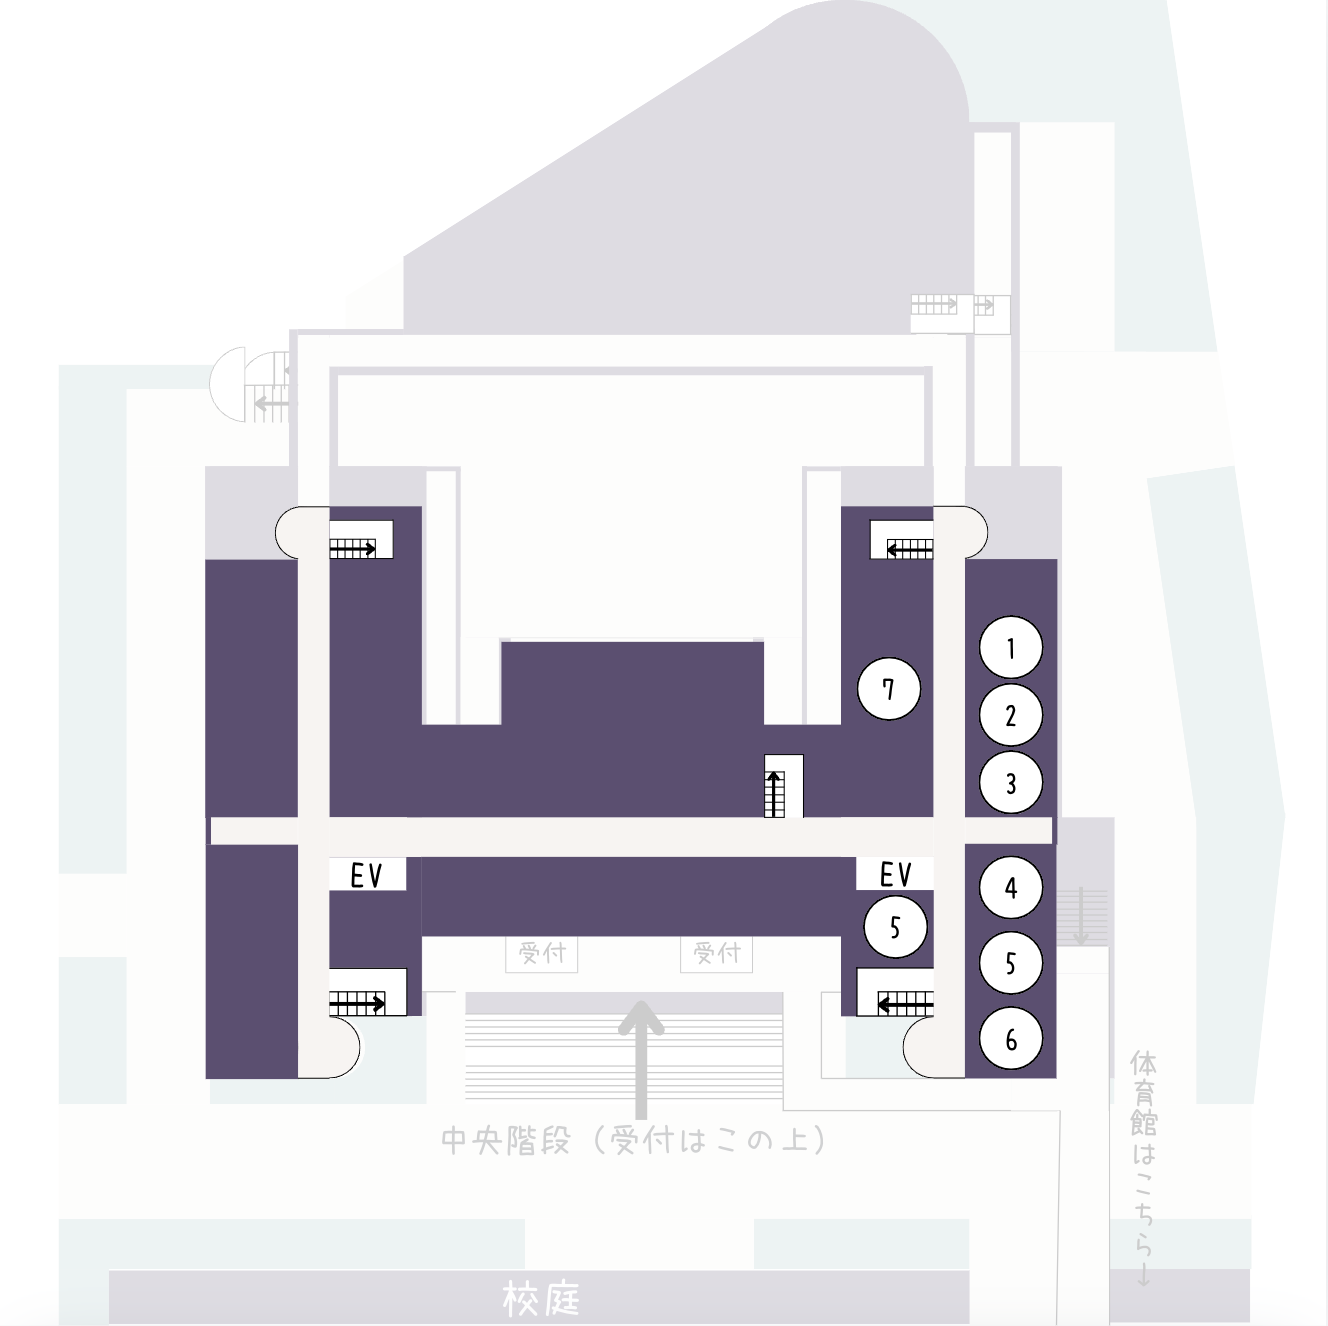
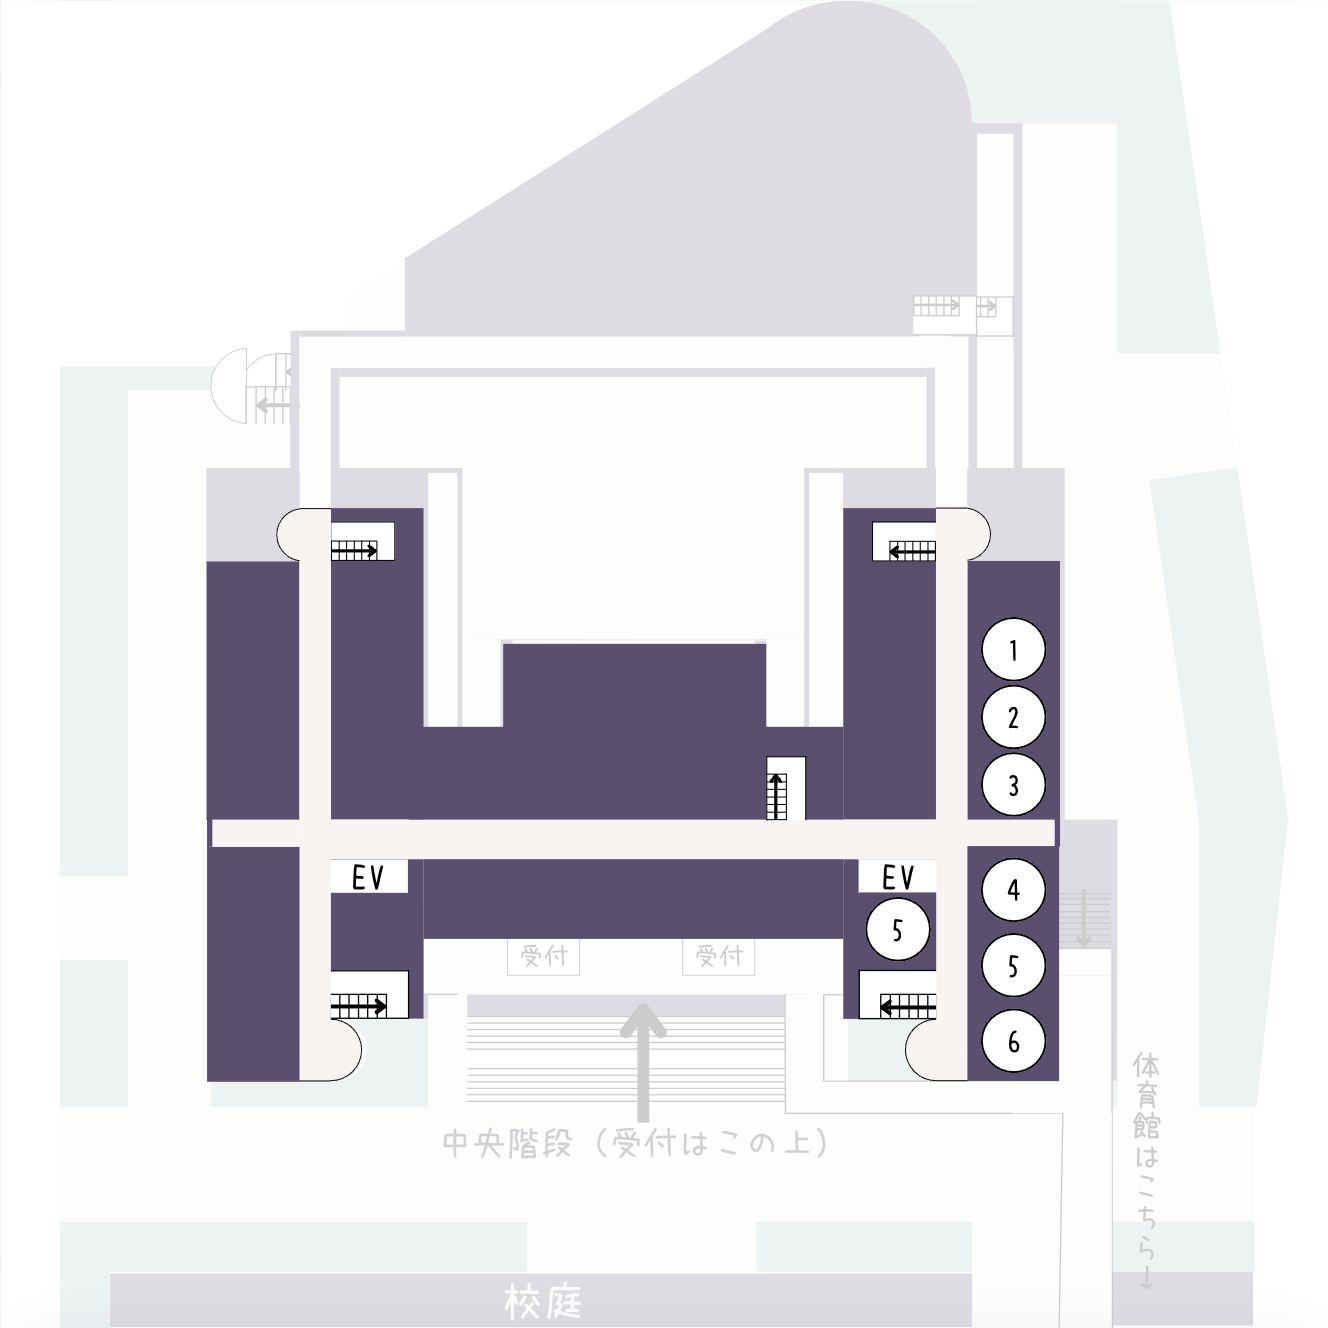
mapのメンテ完了

diff --git a/app/components/map/mapExhibitions.tsx b/app/components/map/mapExhibitions.tsx
@@ -2,10 +2,16 @@ import { zen_kurenaido } from "@/fonts/fonts"
 import Link from "next/link"
 
 export function MapExhibitions({ data }: { data: any}) {
+
+    console.log("--------------------------------------")
+    console.log(data)
+    console.log(data.contents)
+    console.log("--------------------------------------")
+
     return(
         <div className={`${zen_kurenaido.className} grid md:grid-cols-2 grid-cols-1`}>
             {
-                data.contents.map((content: any) => {
+                data.map((content: any) => {
                     return(
                         <Link
                         key={content.id}
@@ -15,7 +21,7 @@ export function MapExhibitions({ data }: { data: any}) {
                             <div
                             className="bg-white border border-black text-lg md:m-2 m-1 md:w-11 md:h-11 w-8 h-8 flex items-center justify-center rounded-full"
                             >
-                                {data.contents.indexOf(content) + 1}
+                                {content.mapNumber}
                                 </div>
                             <div>
                                 <div className="text-xl text-blue-500 hover:text-blue-700 underline">{content.title}</div>

diff --git a/consts/const.tsx b/consts/const.tsx
@@ -308,3 +308,47 @@ export const mapImages = [
     mapImage5F,
     mapImage6F
 ]
+
+const test = [
+    {
+        title: "a",
+        name: "aa",
+        number: 1,
+    },
+    {
+        title: "i",
+        name: "ii",
+        number: 7,
+    },
+    {
+        title: "y",
+        name: "yy",
+        number: 5,
+    },
+    {
+        title: "u",
+        name: "uu",
+        number: 4,
+    },
+    {
+        title: "o",
+        name: "oo",
+        number: 3,
+    },
+    {
+        title: "e",
+        name: "ee",
+        number: 6,
+    },
+    {
+        title: "k",
+        name: "kk",
+        number: 8,
+    },
+    {
+        title: "q",
+        name: "qq",
+        number: 2,
+    },
+
+]

diff --git a/app/map/page.tsx b/app/map/page.tsx
@@ -30,14 +30,14 @@ export default async function Page({searchParams}: {
             <PageMain title="マップ"/>
             <Header/>
             <PageContents>
-            <div className="flex items-center justify-center h-[580px] w-full">
+            {/* <div className="flex items-center justify-center h-[580px] w-full">
             <div className=" md:text-7xl text-3xl ">
                 メンテナンス中...
             </div>
-        </div>
-                {/* <Suspense>
+        </div> */}
+                <Suspense>
                     <Map floor={floor}/>
-                </Suspense> */}
+                </Suspense>
             </PageContents>
         </div>
     )

diff --git a/app/components/map/map.tsx b/app/components/map/map.tsx
@@ -6,18 +6,16 @@ import { MapExhibitions } from "./mapExhibitions"
 export async function Map({ floor}: { floor: string}) {
 
     const data = await getExhibitionsFloor(floor)
-    console.log(data)
-    // console.log(data.contents.length)
-    // data.contents.map((content: any) => {
-    //     console.log(content.title)
-    // })
 
+    const sortData = data.contents.sort((a: any, b: any) => {
+        return a.mapNumber - b.mapNumber
+    })
 
     return(
         <div className="w-full bg-white">
             <Floors/>
             <MapImages floor={floor}/>
-            <MapExhibitions data={data}/>
+            <MapExhibitions data={sortData}/>
         </div>
     )
 }
